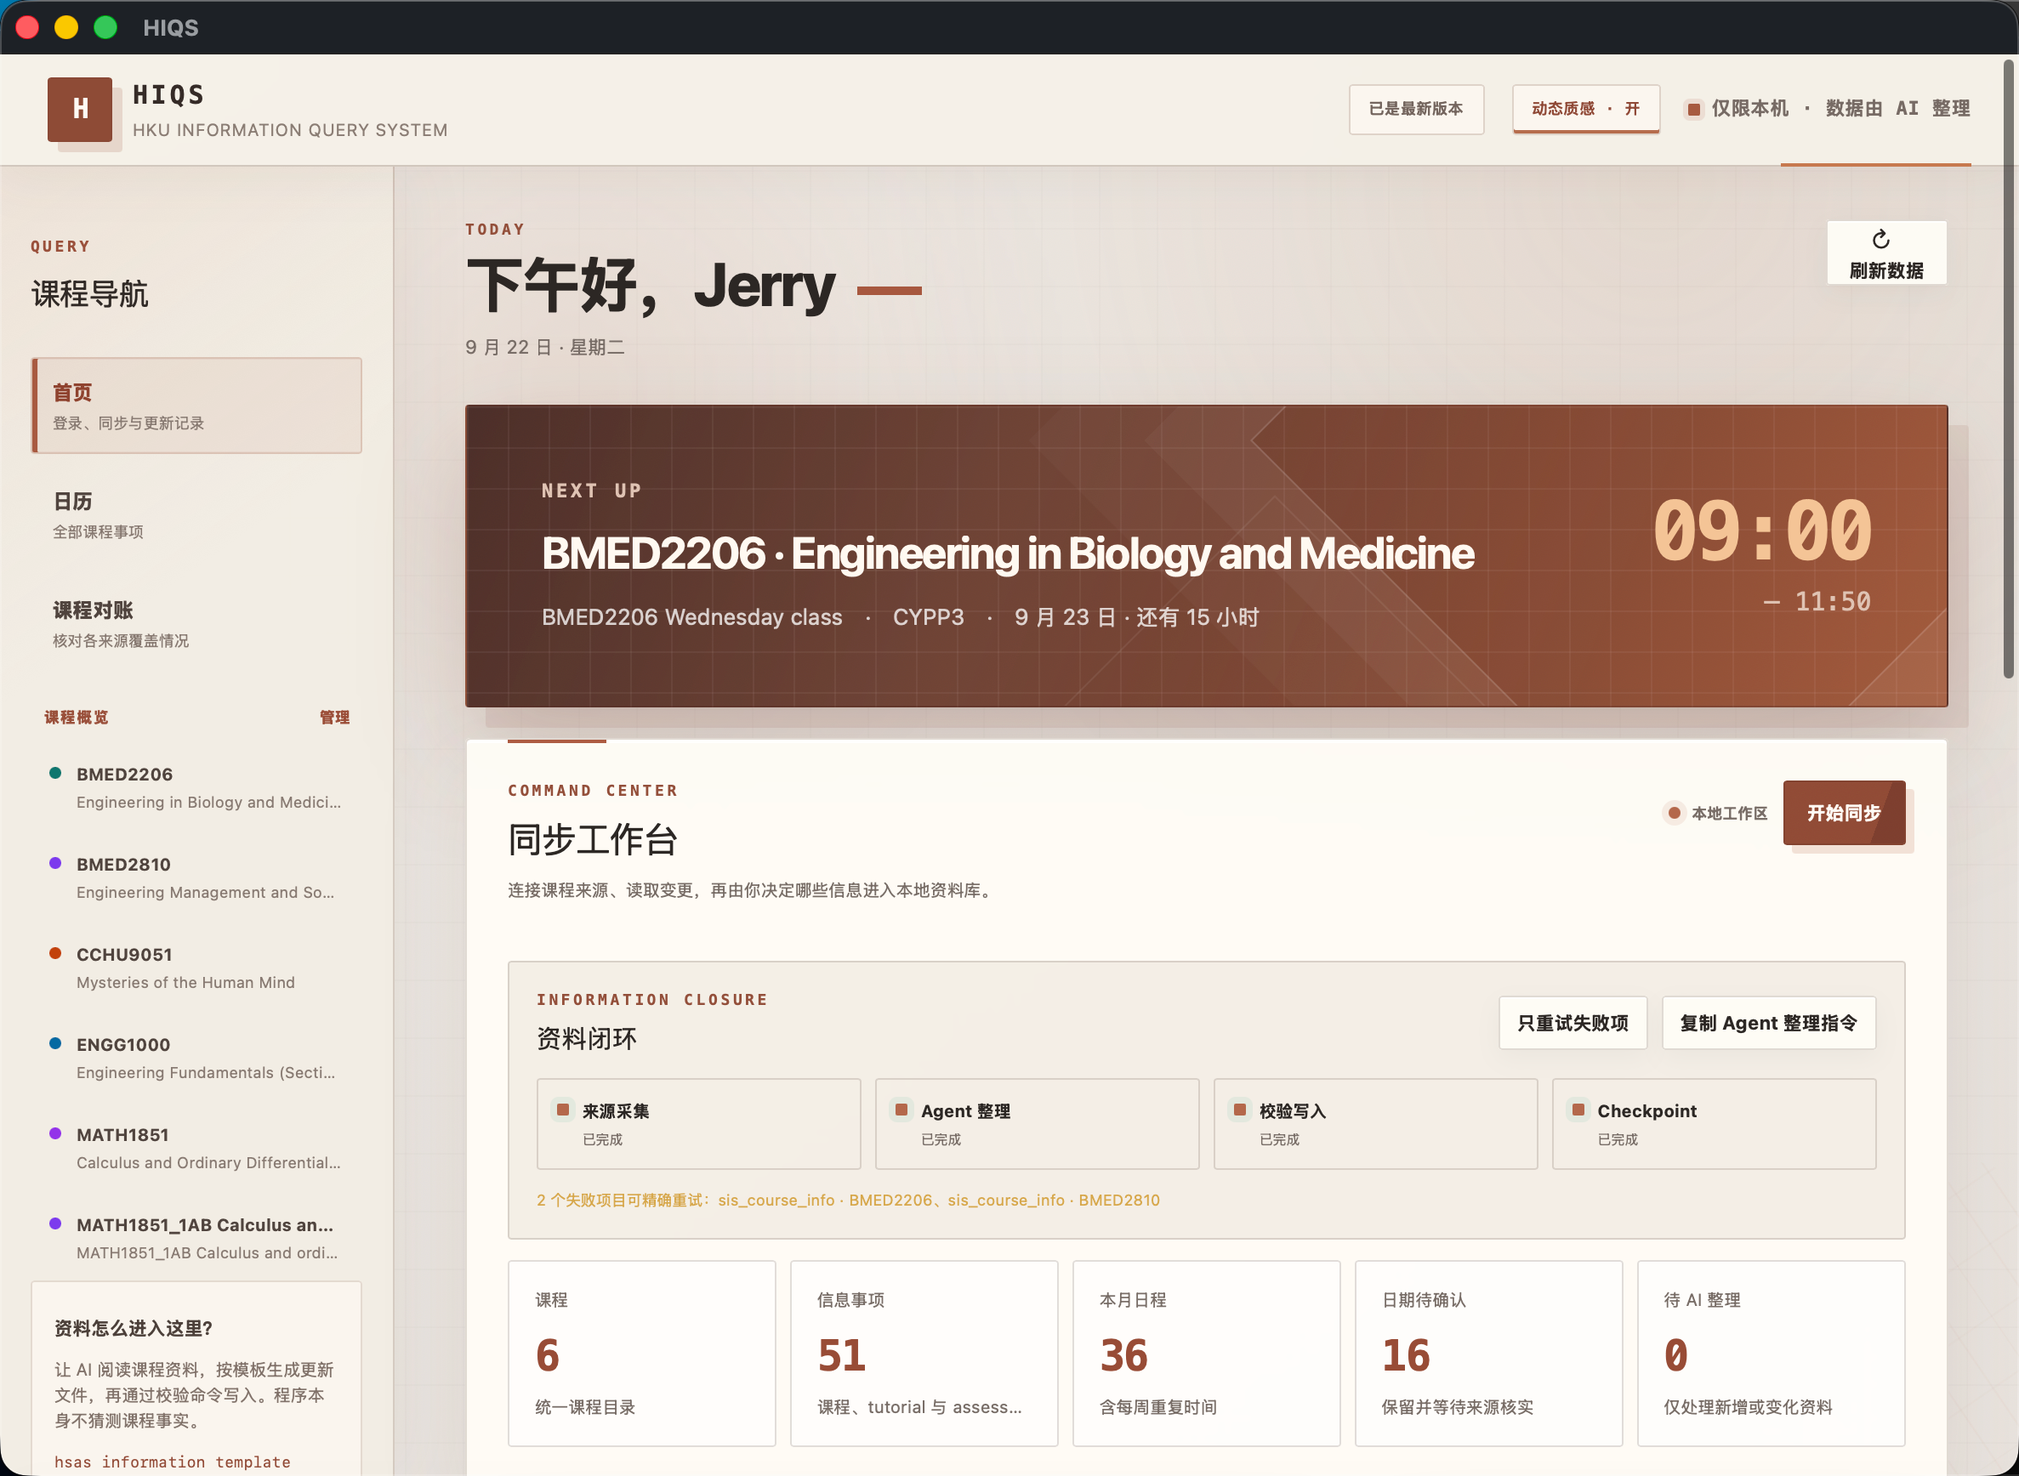
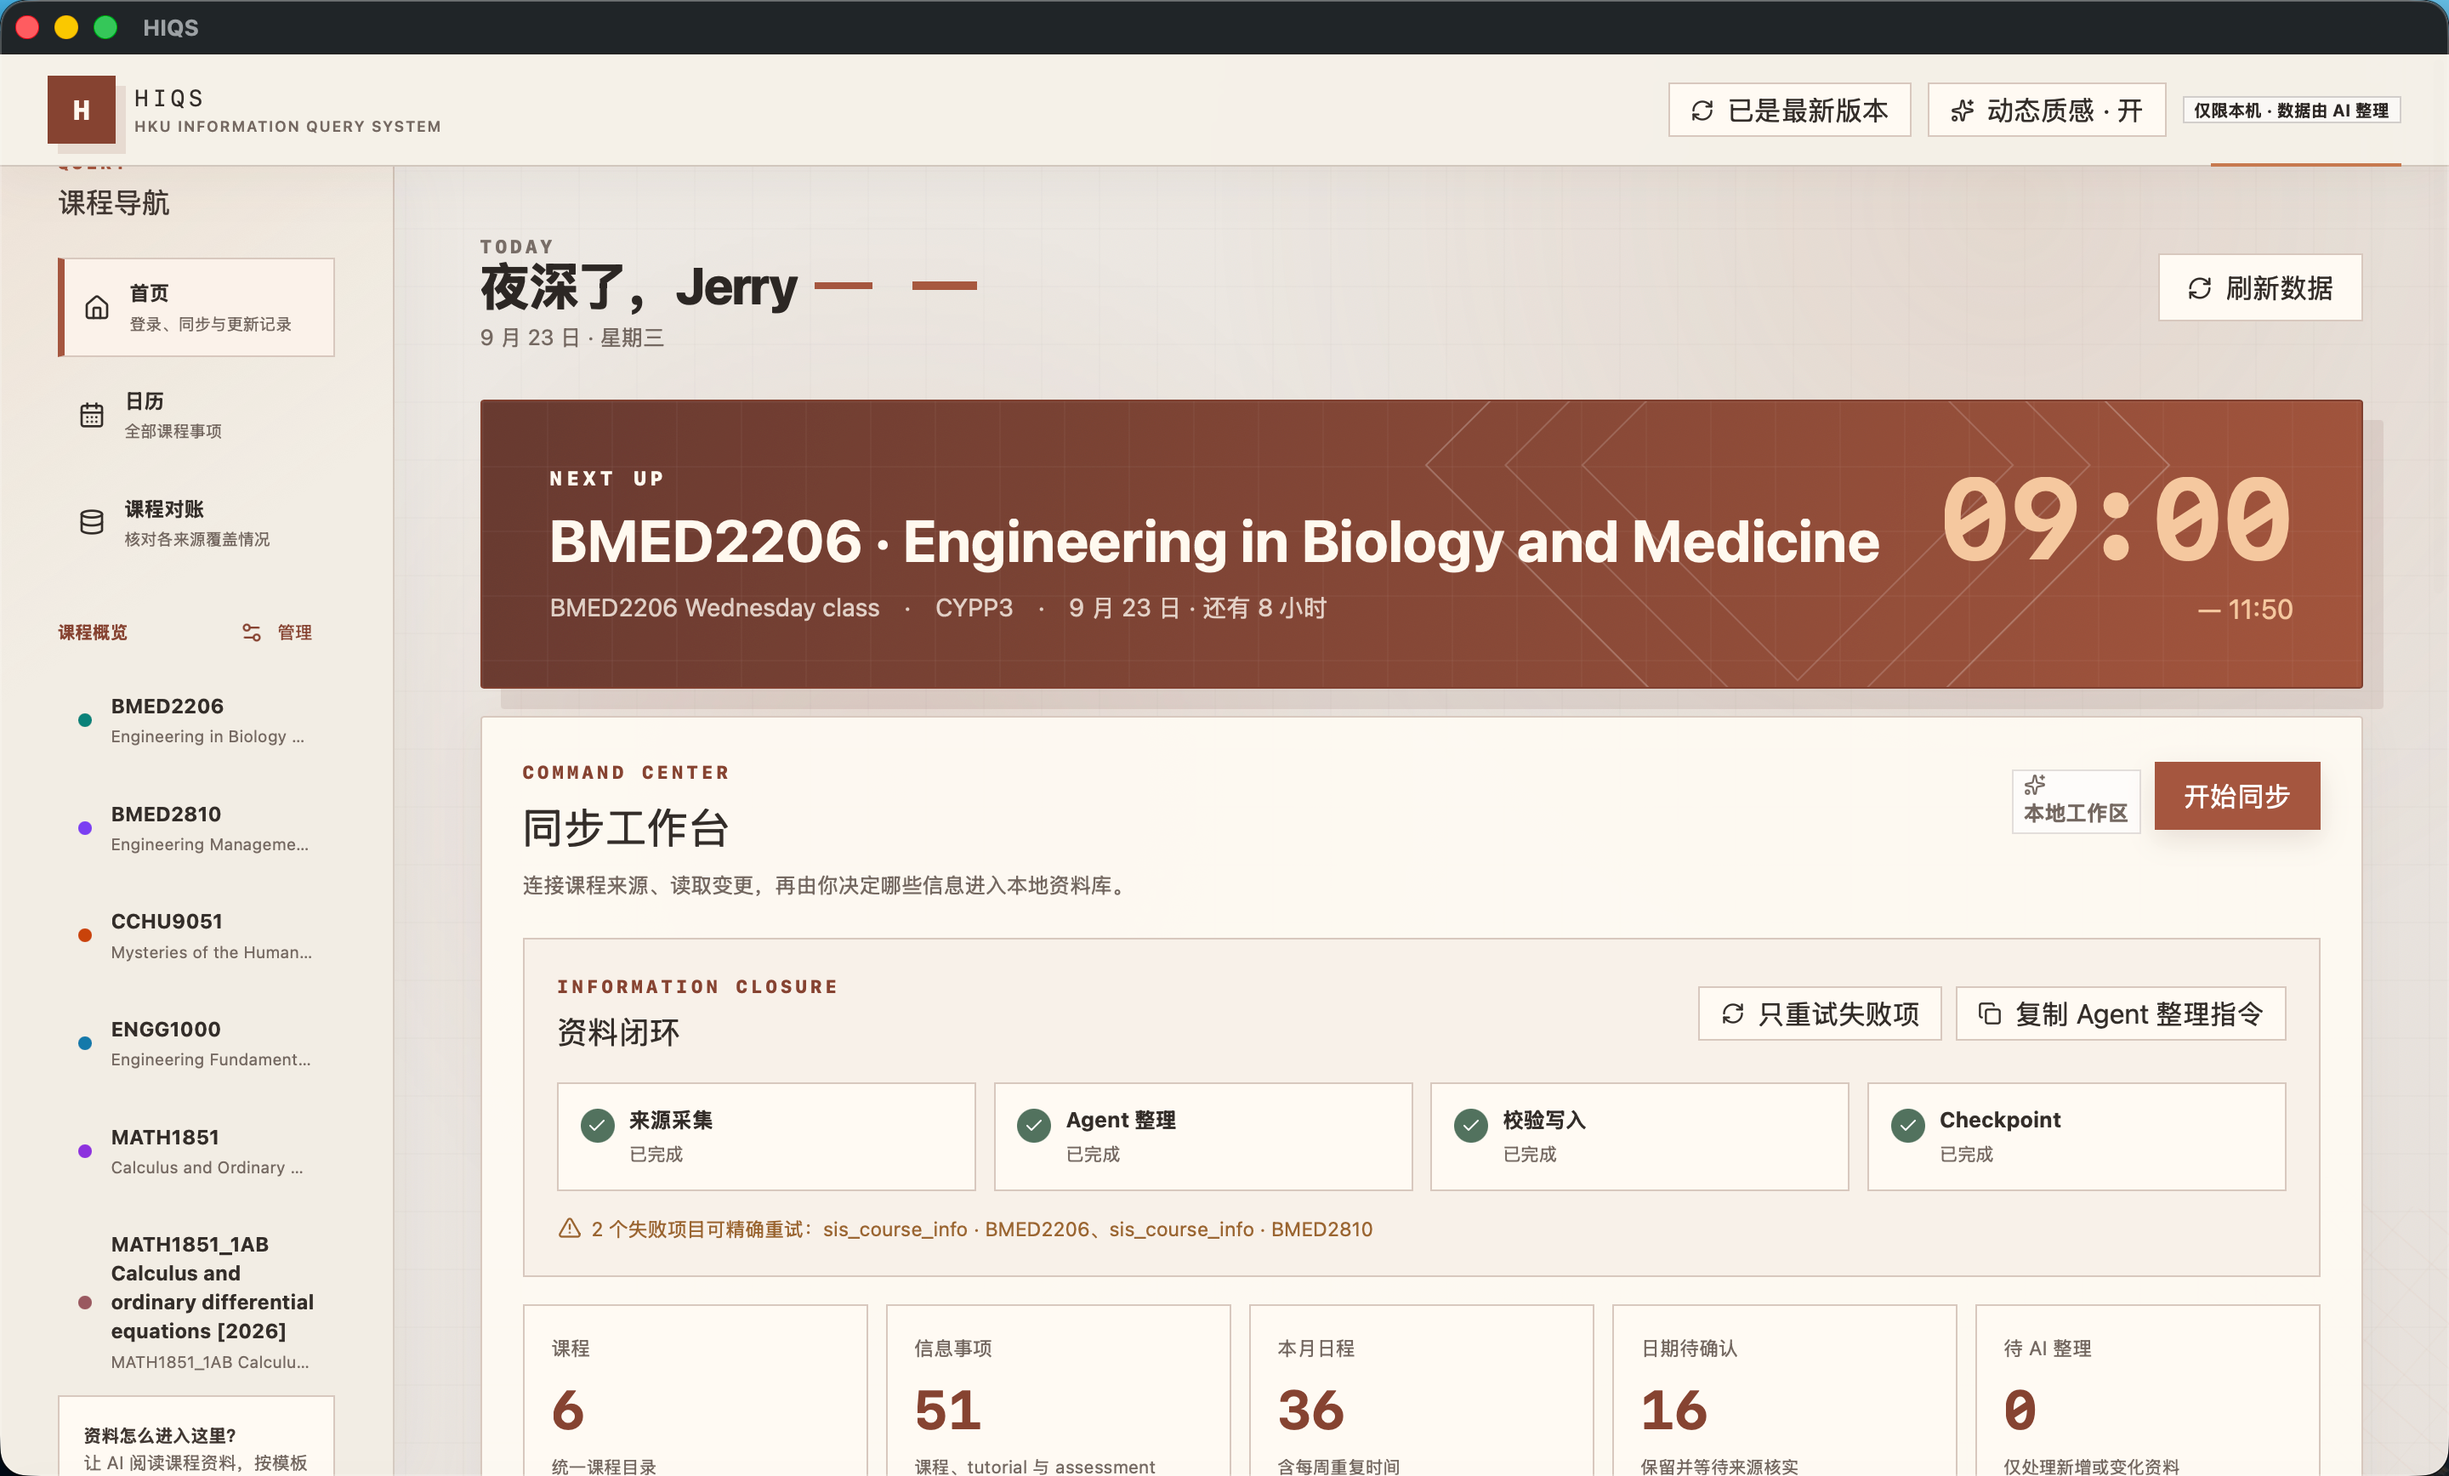
Release HIQS 2.8.0

diff --git a/tests/test_version.py b/tests/test_version.py
@@ -7,4 +7,4 @@ from hsas import __version__
 def test_package_versions_stay_in_sync() -> None:
     project = tomllib.loads(Path("pyproject.toml").read_text(encoding="utf-8"))
 
-    assert __version__ == project["project"]["version"] == "2.7.0"
+    assert __version__ == project["project"]["version"] == "2.8.0"

diff --git a/src/hsas/__init__.py b/src/hsas/__init__.py
@@ -1,3 +1,3 @@
 """HKU Information Query System."""
 
-__version__ = "2.7.0"
+__version__ = "2.8.0"
